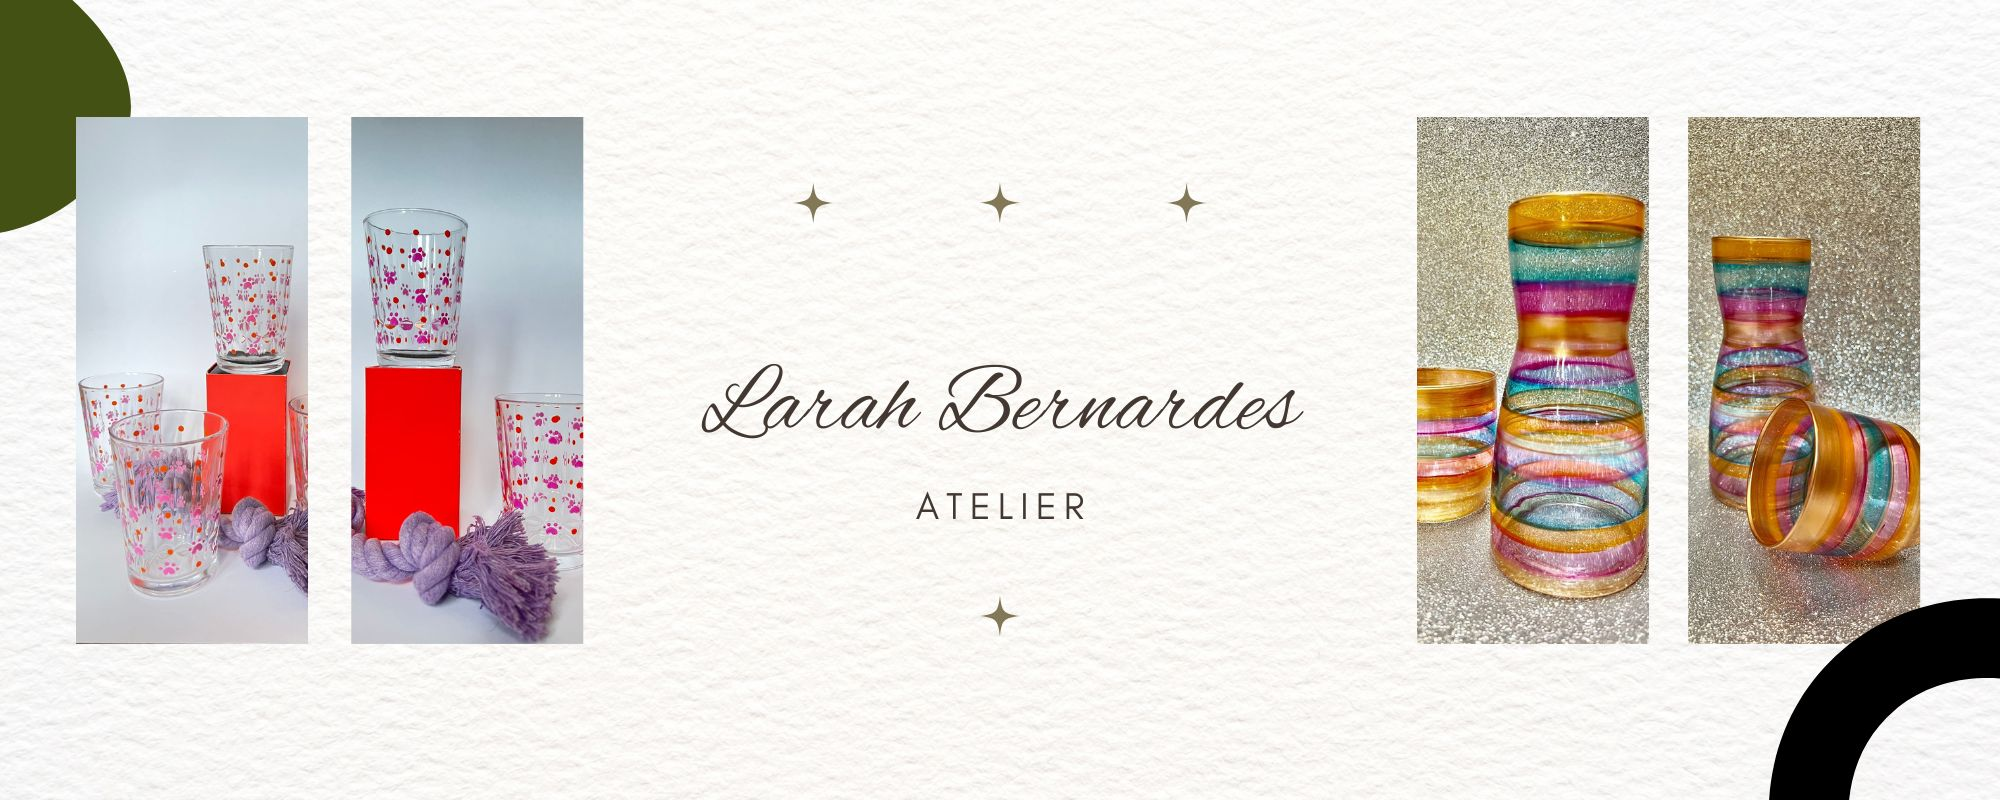
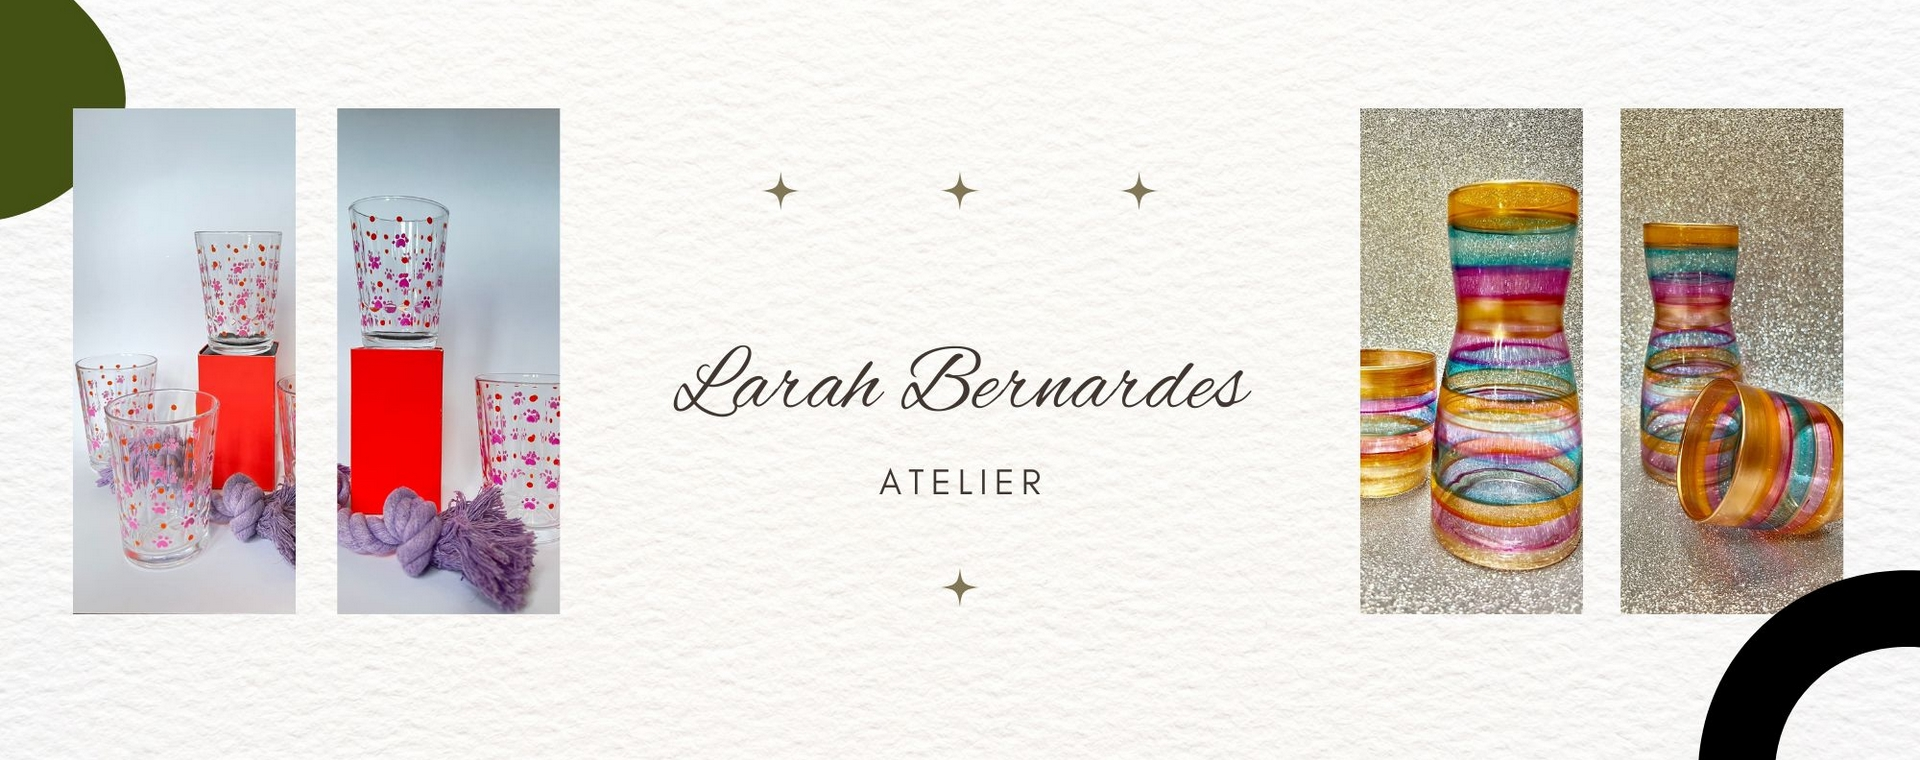
final

diff --git a/main.css b/main.css
@@ -27,10 +27,6 @@ body {
     font-size: 45px;
 }
 
-#sobre-o-atelier .carousel-inner {
-    max-width: 100%;
-}
-
 #sobre-o-atelier,
 #portifolio {
     background-color: #DEEDF0;
